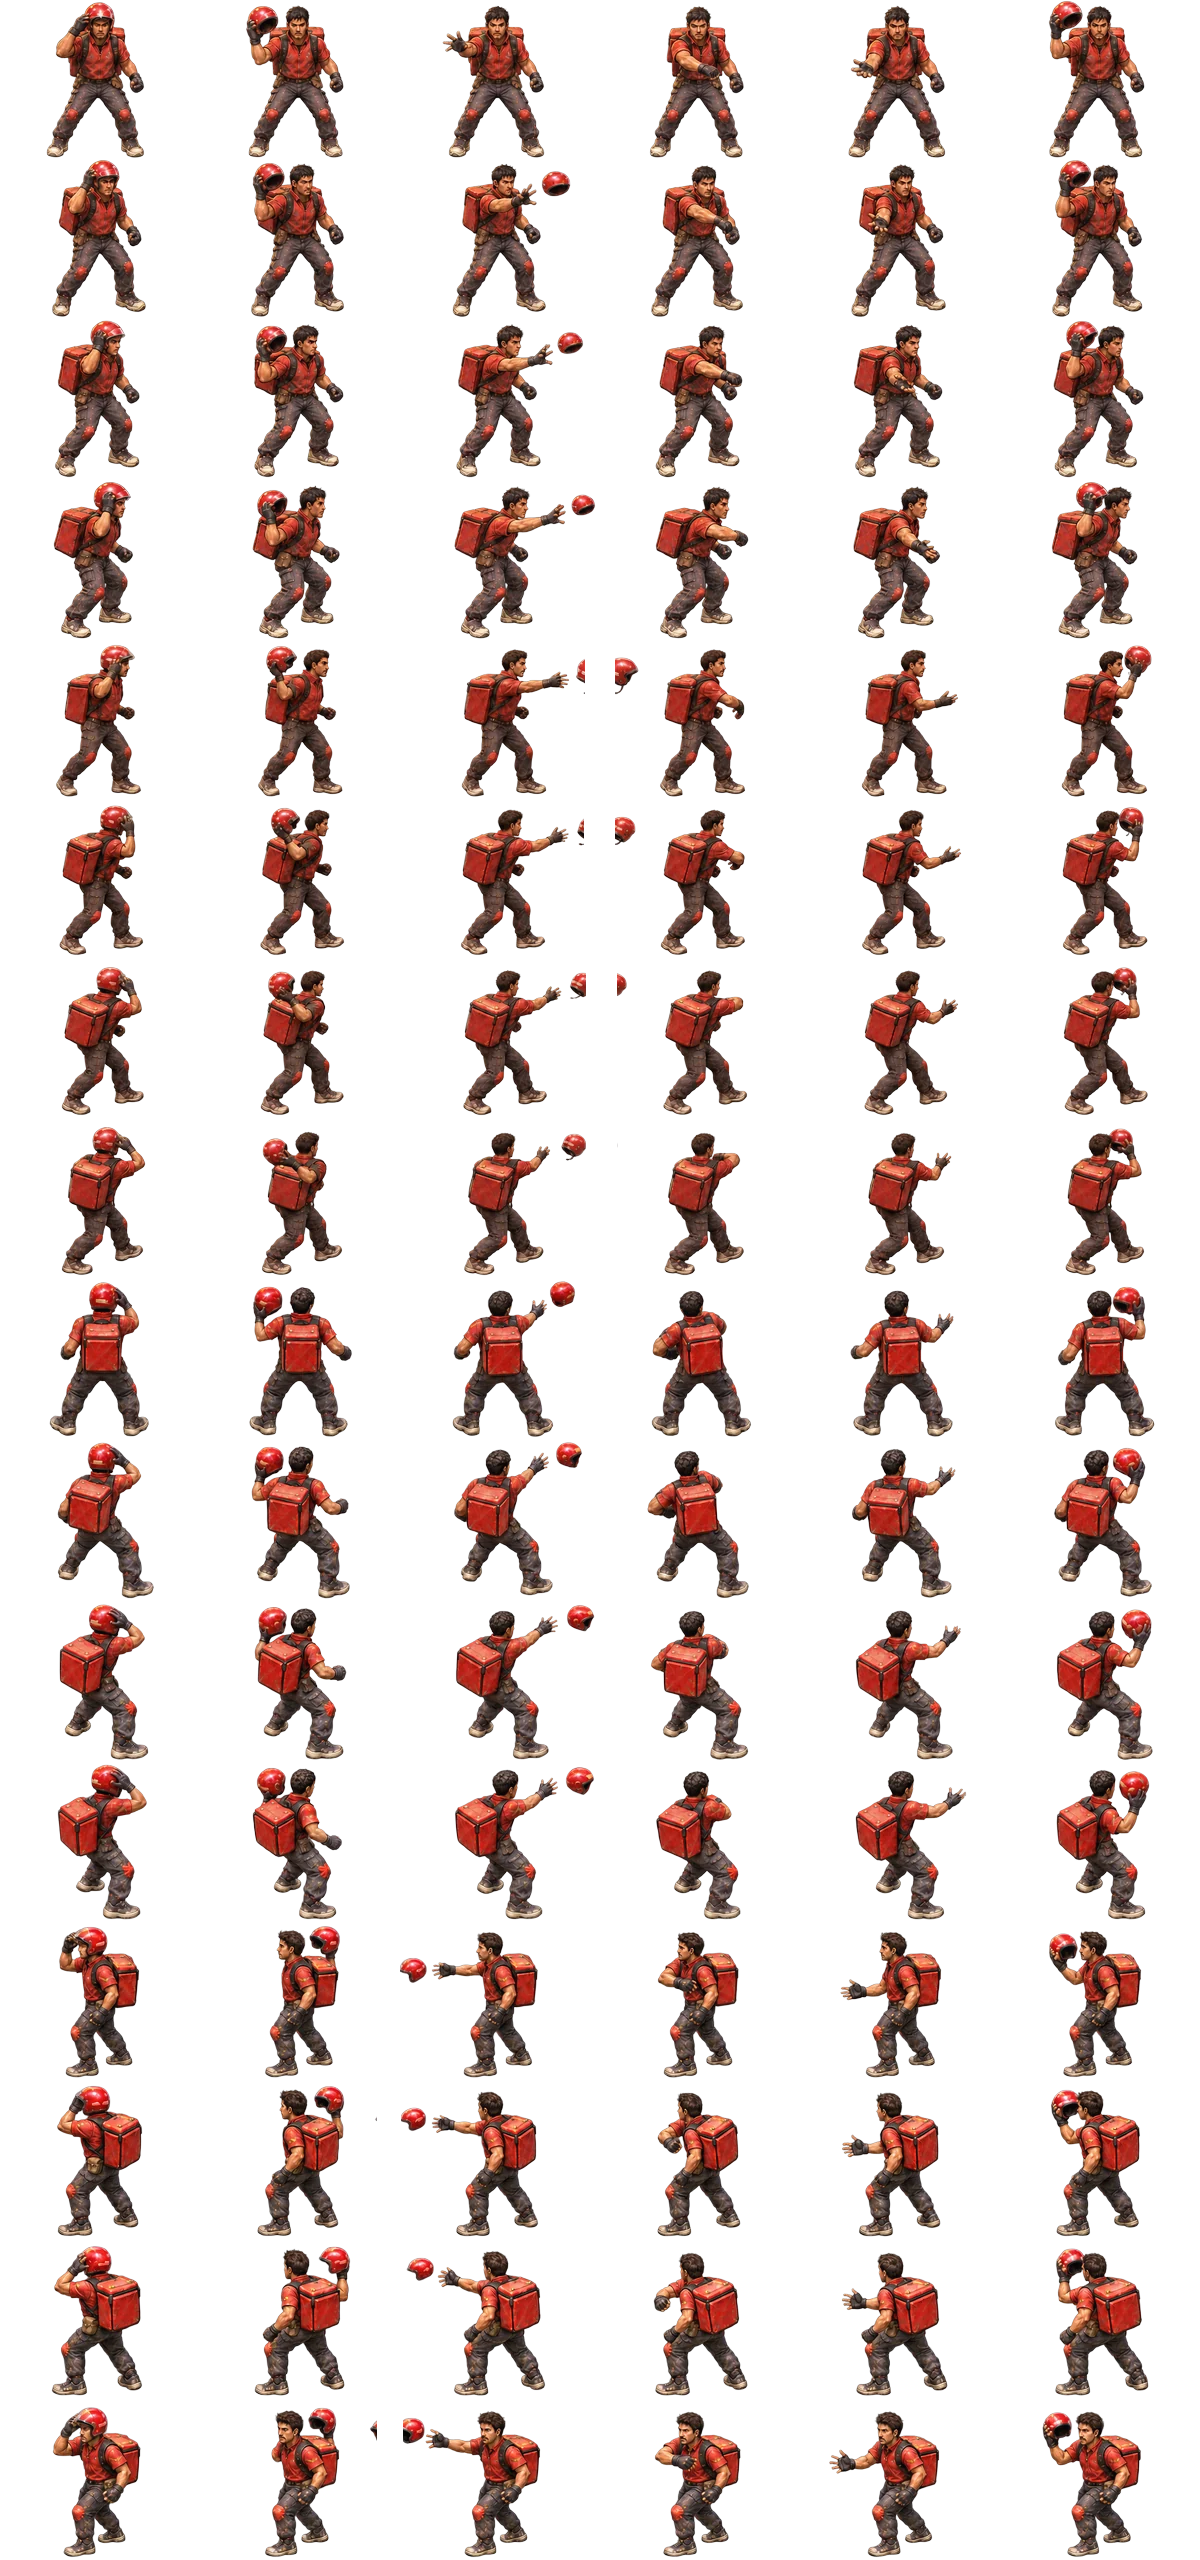
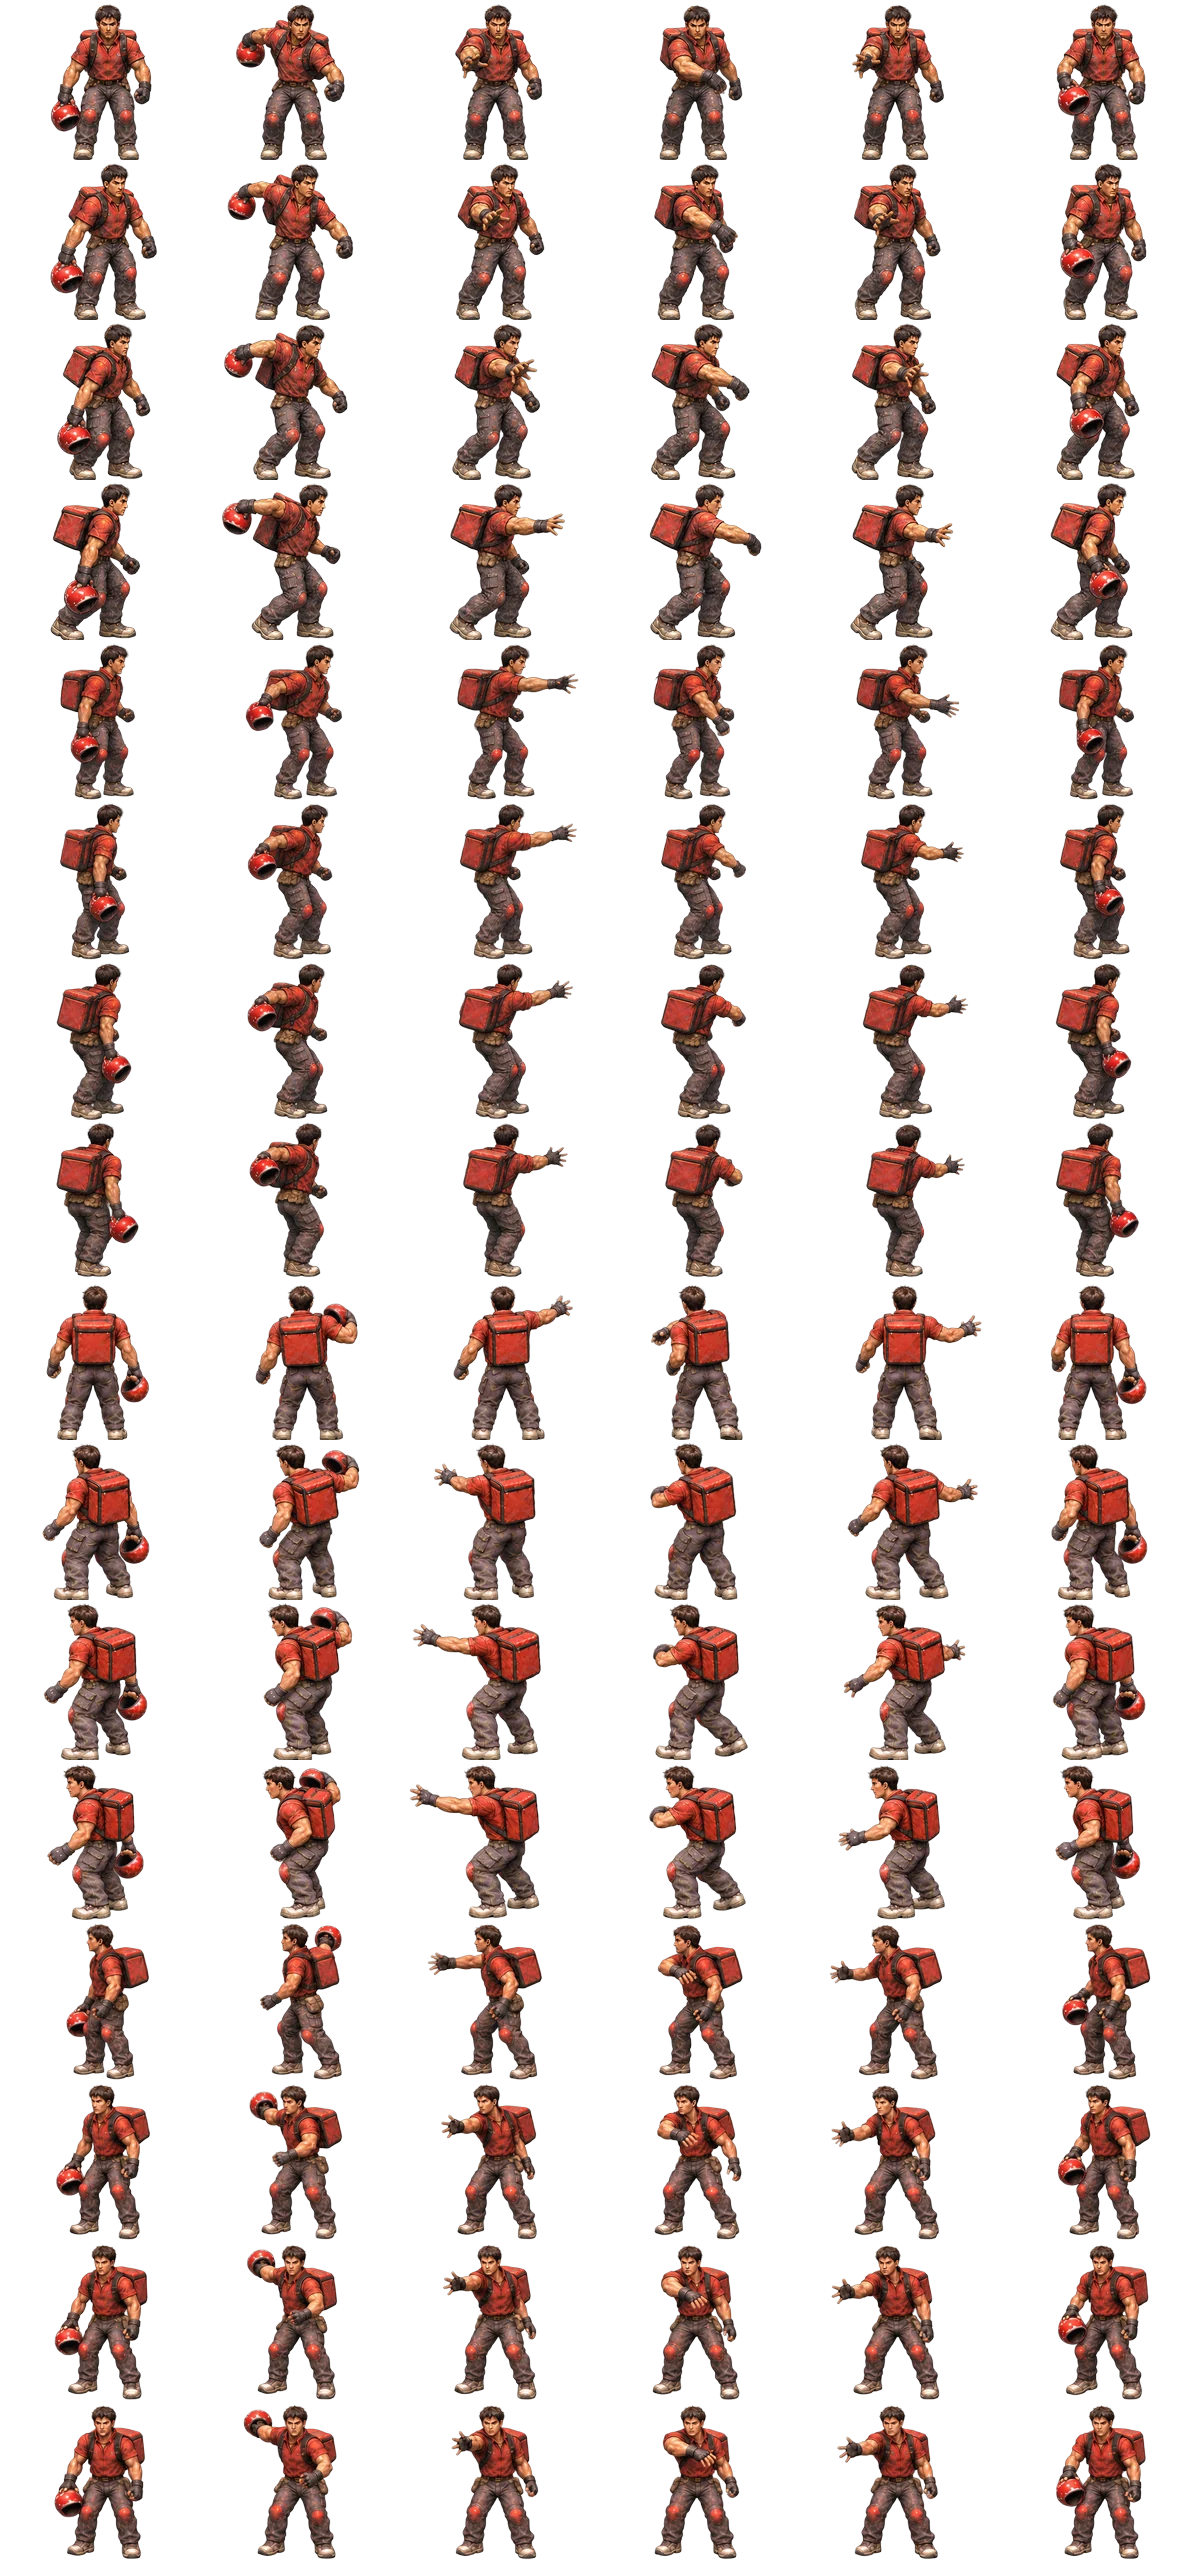
Juninho: pacote de arremesso v2 (16 direções × 6 quadros)
- Substitui a v1: cabeça descoberta, capacete na mão direita, sem
  capacete no quadro de lançamento (acaba o capacete duplo), registro
  entre quadros bem mais estável
- Folhas, especificação e manifesto do pacote em
  prototype/assets/personagens/juninho_ataque/; atlas refeito
- Continua sem ciclo de caminhada: a passada mecânica permanece

Claude-Session: https://claude.ai/code/session_01V3nfXgj3At2PPcBsXwjYXU

diff --git a/prototype/assets/personagens/juninho_ataque/especificacao_e_prompts.md b/prototype/assets/personagens/juninho_ataque/especificacao_e_prompts.md
@@ -1,0 +1,30 @@
+# Juninho — ataque, 16 direções × 6 quadros
+
+Quatro folhas PNG 1536×1024, grade6×4, células256×256. Mesma ordem angular da caminhada: 0/22,5/45/67,5;90/112,5/135/157,5;180/202,5/225/247,5;270/292,5/315/337,5. Mesma aparência da caminhada, capacete na mão direita, cabeça descoberta.
+
+Colunas:1 posição inicial com capacete;2 preparação;3 lançamento (sem capacete no corpo);4 continuação do movimento;5 espera/recepção de mão vazia;6 capacete recuperado. O projétil deve ser desenhado separadamente, nascer na coluna3 e desaparecer ao ser recuperado. Se o tempo de voo varia, manter a espera na coluna5; a prévia em loop não implementa física.
+
+Arte feita com ferramenta nativa de geração de imagens. Recortes da grade são usados somente para a prévia. O ataque é parado; atacar e caminhar simultaneamente exige integração adicional. Os ciclos não foram testados no motor do jogo.
+
+## Prompts
+
+### Folha1
+
+Game attack animation sprite sheet of Juninho from walking reference. Identity reference only. Same short dark hair, invented face, worn RED shirt/jacket black details, GRAY trousers kneepads, boots, RED square thermal backpack with black straps, no logo. BARE HEAD through all frames; ONE red motorcycle helmet starts in ANATOMICAL RIGHT HAND, never on head. Digitized90s arcade near-photographic style. Elevated orthographic camera50 degrees, warm upper-left light. EXACT1536x1024 PNG,6columns4rows,256x256 cells. Directions per row: row1 FRONT0 degrees facing viewer;row2 FRONT-RIGHT22.5;row3 FRONT-RIGHT45;row4 FRONT-RIGHT67.5 (nearly right profile). Each row contains SIX CONSECUTIVE FRAMES of a HELMET BOOMERANG THROW, same facing throughout that row. Columns:1 READY helmet held low in RIGHT hand beside hip, balanced feet;2 WINDUP right arm draws helmet backward behind shoulder, torso twists;3 RELEASE right arm thrusts forward with open fingers, bare head, NO helmet visible in sprite because projectile is separate;4 FOLLOWTHROUGH empty right arm sweeps across torso, modest weight shift;5 CATCH PREPARATION right hand open reaches out, no helmet;6 CATCH helmet back in RIGHT hand at waist, returns to ready pose. Visible distinct arm movement and torso twist, feet stable slight knee bend, not walking, no displacement. Do not switch anatomical hand or mirror poses. Same body scale, pelvis/root cellx128, feet baseline celly240, full body/backpack/hands/helmet inside every cell withpadding, nooverlap. True alpha transparency: ALL empty areas alpha0, opaque character interiors, crisp natural antialias edges. Absolutely NO ground, NO cast shadow, NO background color, NO mist, NO glow, NO text/numbers/labels/gridlines/logos. No airborne helmet baked into sprite, no trails or effects. 24 poses in exact6x4 grid.
+
+### Folha2
+
+Game attack animation sprite sheet of Juninho from walking reference. Identity reference only. Same short dark hair, invented face, worn RED shirt/jacket black details, GRAY trousers kneepads, boots, RED square thermal backpack with black straps, no logo. BARE HEAD through all frames; ONE red motorcycle helmet starts in ANATOMICAL RIGHT HAND, never on head. Digitized90s arcade near-photographic style. Elevated orthographic camera50 degrees, warm upper-left light. EXACT1536x1024 PNG,6columns4rows,256x256 cells. Directions per row: row1 RIGHT PROFILE90 degrees facing SCREEN RIGHT;row2 BACK-RIGHT112.5 facing away toward SCREEN RIGHT;row3 BACK-RIGHT135;row4 BACK-RIGHT157.5 almost fullback. Each row contains SIX CONSECUTIVE FRAMES of a HELMET BOOMERANG THROW, same facing throughout that row. Columns:1 READY helmet held low in RIGHT hand beside hip, balanced feet;2 WINDUP right arm draws helmet backward behind shoulder, torso twists;3 RELEASE right arm thrusts forward with open fingers, bare head, NO helmet visible in sprite because projectile is separate;4 FOLLOWTHROUGH empty right arm sweeps across torso, modest weight shift;5 CATCH PREPARATION right hand open reaches out, no helmet;6 CATCH helmet back in RIGHT hand at waist, returns to ready pose. Visible distinct arm movement and torso twist, feet stable slight knee bend, not walking, no displacement. Do not switch anatomical hand or mirror poses. Same body scale, pelvis/root cellx128, feet baseline celly240, full body/backpack/hands/helmet inside every cell withpadding, nooverlap. True alpha transparency: ALL empty areas alpha0, opaque character interiors, crisp natural antialias edges. Absolutely NO ground, NO cast shadow, NO background color, NO mist, NO glow, NO text/numbers/labels/gridlines/logos. No airborne helmet baked into sprite, no trails or effects. 24 poses in exact6x4 grid.
+
+### Folha3
+
+Game attack animation sprite sheet of Juninho from walking reference. Identity reference only. Same short dark hair, invented face, worn RED shirt/jacket black details, GRAY trousers kneepads, boots, RED square thermal backpack with black straps, no logo. BARE HEAD through all frames; ONE red motorcycle helmet starts in ANATOMICAL RIGHT HAND, never on head. Digitized90s arcade near-photographic style. Elevated orthographic camera50 degrees, warm upper-left light. EXACT1536x1024 PNG,6columns4rows,256x256 cells. Directions per row: row1 FULLBACK180 degrees facing AWAY, helmet in anatomical RIGHT hand on SCREEN RIGHT;row2 BACK-LEFT202.5 facing away toward SCREEN LEFT;row3 BACK-LEFT225;row4 BACK-LEFT247.5 almost LEFT profile, nose points SCREEN LEFT. Never face screen right.. Each row contains SIX CONSECUTIVE FRAMES of a HELMET BOOMERANG THROW, same facing throughout that row. Columns:1 READY helmet held low in RIGHT hand beside hip, balanced feet;2 WINDUP right arm draws helmet backward behind shoulder, torso twists;3 RELEASE right arm thrusts forward with open fingers, bare head, NO helmet visible in sprite because projectile is separate;4 FOLLOWTHROUGH empty right arm sweeps across torso, modest weight shift;5 CATCH PREPARATION right hand open reaches out, no helmet;6 CATCH helmet back in RIGHT hand at waist, returns to ready pose. Visible distinct arm movement and torso twist, feet stable slight knee bend, not walking, no displacement. Do not switch anatomical hand or mirror poses. Same body scale, pelvis/root cellx128, feet baseline celly240, full body/backpack/hands/helmet inside every cell withpadding, nooverlap. True alpha transparency: ALL empty areas alpha0, opaque character interiors, crisp natural antialias edges. Absolutely NO ground, NO cast shadow, NO background color, NO mist, NO glow, NO text/numbers/labels/gridlines/logos. No airborne helmet baked into sprite, no trails or effects. 24 poses in exact6x4 grid.
+
+### Folha4
+
+Game attack animation sprite sheet of Juninho from walking reference. Identity reference only. Same short dark hair, invented face, worn RED shirt/jacket black details, GRAY trousers kneepads, boots, RED square thermal backpack with black straps, no logo. BARE HEAD through all frames; ONE red motorcycle helmet starts in ANATOMICAL RIGHT HAND, never on head. Digitized90s arcade near-photographic style. Elevated orthographic camera50 degrees, warm upper-left light. EXACT1536x1024 PNG,6columns4rows,256x256 cells. Directions per row: row1 LEFT PROFILE270 degrees facing SCREEN LEFT;row2 FRONT-LEFT292.5;row3 FRONT-LEFT315;row4 FRONT-LEFT337.5 almost front. Each row contains SIX CONSECUTIVE FRAMES of a HELMET BOOMERANG THROW, same facing throughout that row. Columns:1 READY helmet held low in RIGHT hand beside hip, balanced feet;2 WINDUP right arm draws helmet backward behind shoulder, torso twists;3 RELEASE right arm thrusts forward with open fingers, bare head, NO helmet visible in sprite because projectile is separate;4 FOLLOWTHROUGH empty right arm sweeps across torso, modest weight shift;5 CATCH PREPARATION right hand open reaches out, no helmet;6 CATCH helmet back in RIGHT hand at waist, returns to ready pose. Visible distinct arm movement and torso twist, feet stable slight knee bend, not walking, no displacement. Do not switch anatomical hand or mirror poses. Same body scale, pelvis/root cellx128, feet baseline celly240, full body/backpack/hands/helmet inside every cell withpadding, nooverlap. True alpha transparency: ALL empty areas alpha0, opaque character interiors, crisp natural antialias edges. Absolutely NO ground, NO cast shadow, NO background color, NO mist, NO glow, NO text/numbers/labels/gridlines/logos. No airborne helmet baked into sprite, no trails or effects. 24 poses in exact6x4 grid.
+
+## Correção das vistas de costas
+
+Game attack animation sprite sheet of Juninho from walking reference. Identity reference only. Same short dark hair, invented face, worn RED shirt/jacket black details, GRAY trousers kneepads, boots, RED square thermal backpack with black straps, no logo. BARE HEAD through all frames; ONE red motorcycle helmet starts in ANATOMICAL RIGHT HAND, never on head. Digitized90s arcade near-photographic style. Elevated orthographic camera50 degrees, warm upper-left light. EXACT1536x1024 PNG,6columns4rows,256x256 cells. Directions per row: row1 FULLBACK180 degrees facing AWAY, helmet in anatomical RIGHT hand on SCREEN RIGHT;row2 BACK-LEFT202.5 facing away toward SCREEN LEFT;row3 BACK-LEFT225;row4 BACK-LEFT247.5 almost LEFT profile, nose points SCREEN LEFT. Never face screen right.. Each row contains SIX CONSECUTIVE FRAMES of a HELMET BOOMERANG THROW, same facing throughout that row. Columns:1 READY helmet held low in RIGHT hand beside hip, balanced feet;2 WINDUP right arm draws helmet backward behind shoulder, torso twists;3 RELEASE right arm thrusts forward with open fingers, bare head, NO helmet visible in sprite because projectile is separate;4 FOLLOWTHROUGH empty right arm sweeps across torso, modest weight shift;5 CATCH PREPARATION right hand open reaches out, no helmet;6 CATCH helmet back in RIGHT hand at waist, returns to ready pose. Visible distinct arm movement and torso twist, feet stable slight knee bend, not walking, no displacement. Do not switch anatomical hand or mirror poses. Same body scale, pelvis/root cellx128, feet baseline celly240, full body/backpack/hands/helmet inside every cell withpadding, nooverlap. True alpha transparency: ALL empty areas alpha0, opaque character interiors, crisp natural antialias edges. Absolutely NO ground, NO cast shadow, NO background color, NO mist, NO glow, NO text/numbers/labels/gridlines/logos. No airborne helmet baked into sprite, no trails or effects. 24 poses in exact6x4 grid.
+IMPORTANT: Reference shows EXACT correct row orientations BACK then increasingly toward LEFT. Preserve these four row orientations, same head/nose directions and same anatomical right hand as reference, CHANGE ONLY walking into throwing attack. Rows2,3,4 face SCREEN LEFT, NEVER SCREEN RIGHT. Helmets are on SCREEN RIGHT side in back view. Windup in column2 with anatomical RIGHT elbow/hand on right side. No text, true alpha0 background.
